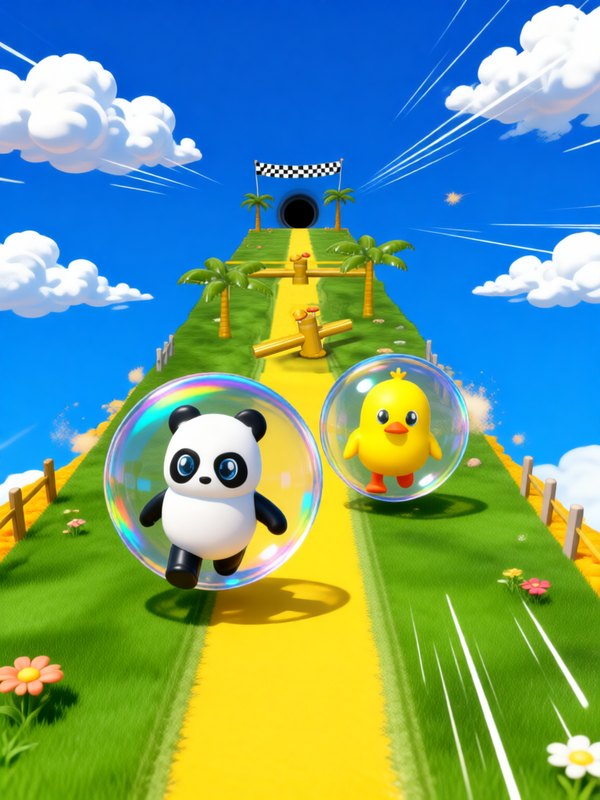
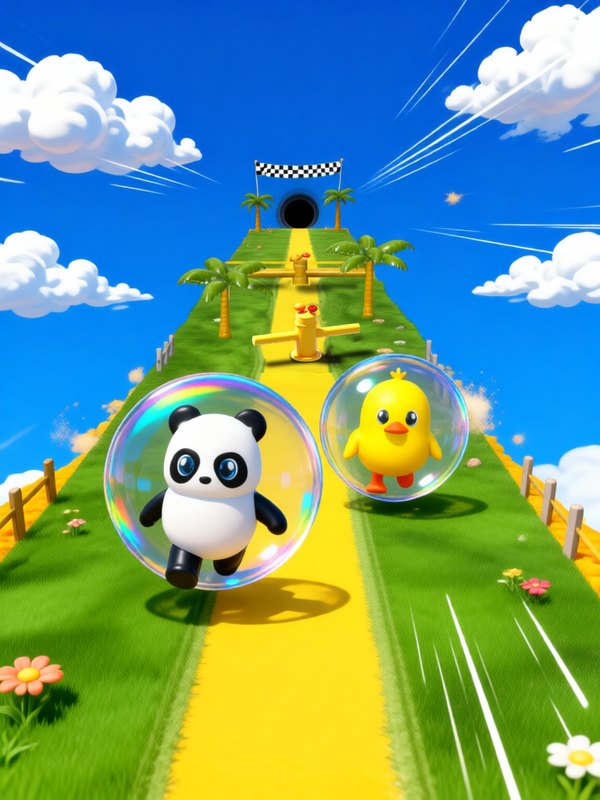
Bumpets Race: obstaculo da capa reto e com sombra

Changed region(s): [[0.42, 0.3438, 0.63, 0.4688]]

diff --git a/bumpets-race/index.html b/bumpets-race/index.html
@@ -20,7 +20,7 @@
 <meta property="og:title" content="Bumpets Race">
 <meta property="og:description" content="Cute animals in bubbles race through an obstacle course. Play online with friends or with someone random!">
 <meta property="og:url" content="https://bartelgames.com.br/bumpets-race/">
-<meta property="og:image" content="https://bartelgames.com.br/bumpets/assets/og_race.jpg?v=3">
+<meta property="og:image" content="https://bartelgames.com.br/bumpets/assets/og_race.jpg?v=4">
 <meta property="og:image:width" content="1200">
 <meta property="og:image:height" content="630">
 <meta name="twitter:card" content="summary_large_image">

diff --git a/index.html b/index.html
@@ -111,7 +111,7 @@
       </a>
       <a class="card" href="bumpets-race/" data-game="bumpets-race">
         <div class="thumb">
-          <img class="cover" src="bumpets/assets/cover_race.jpg?v=3" alt="" width="600" height="800">
+          <img class="cover" src="bumpets/assets/cover_race.jpg?v=4" alt="" width="600" height="800">
           <span class="cover-t" aria-hidden="true"><span>Bumpets</span><span>Race</span></span>
         </div>
         <div class="info">
